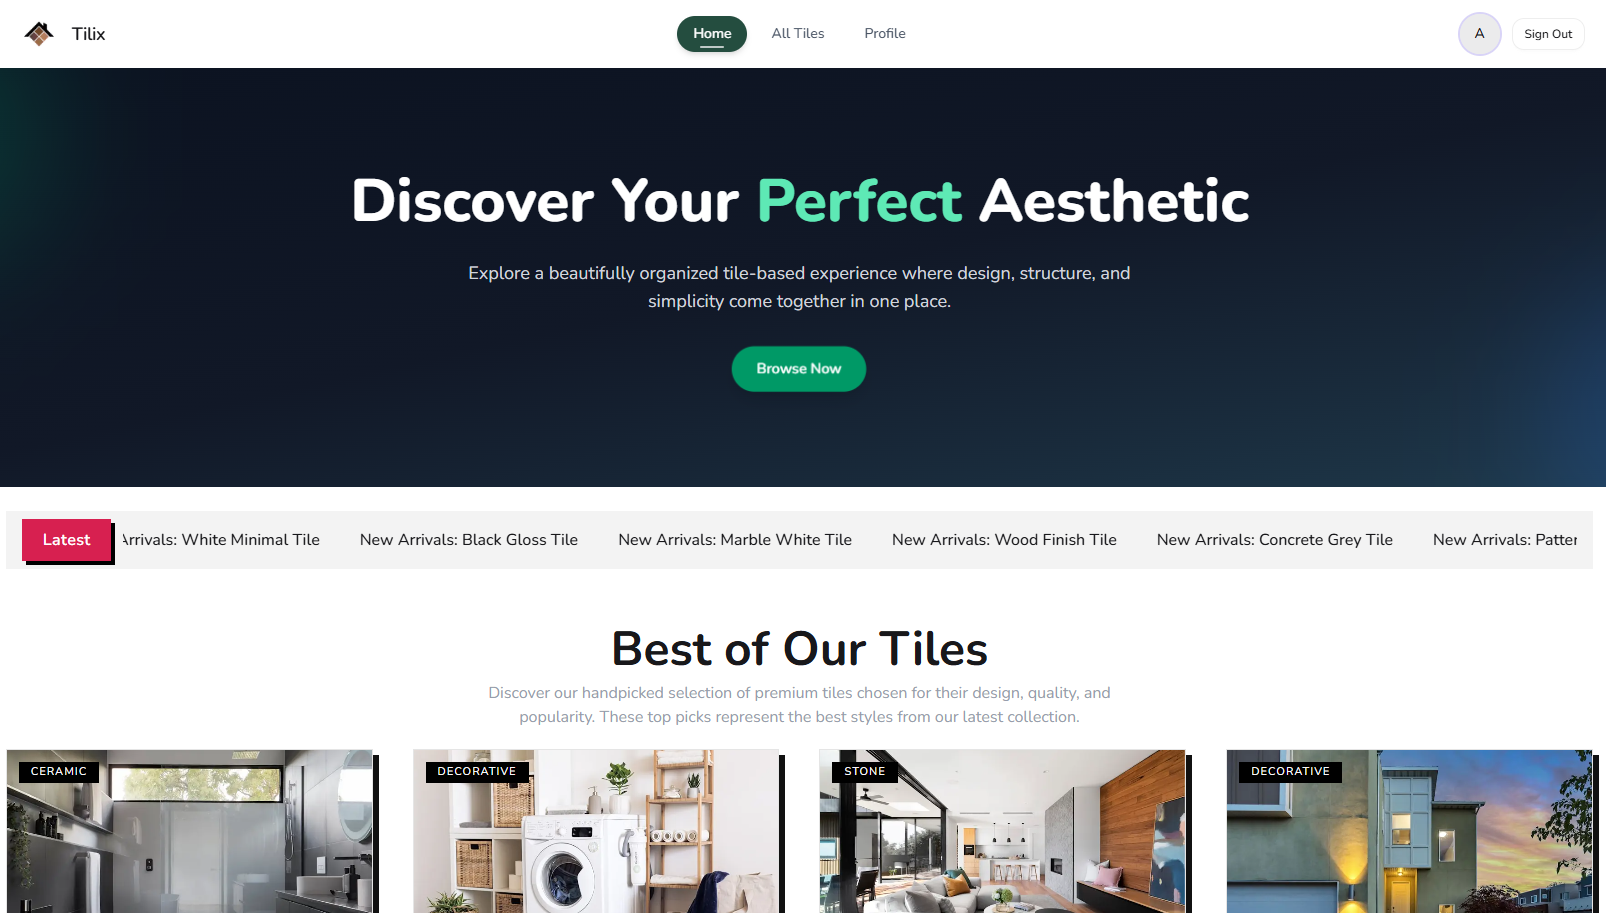
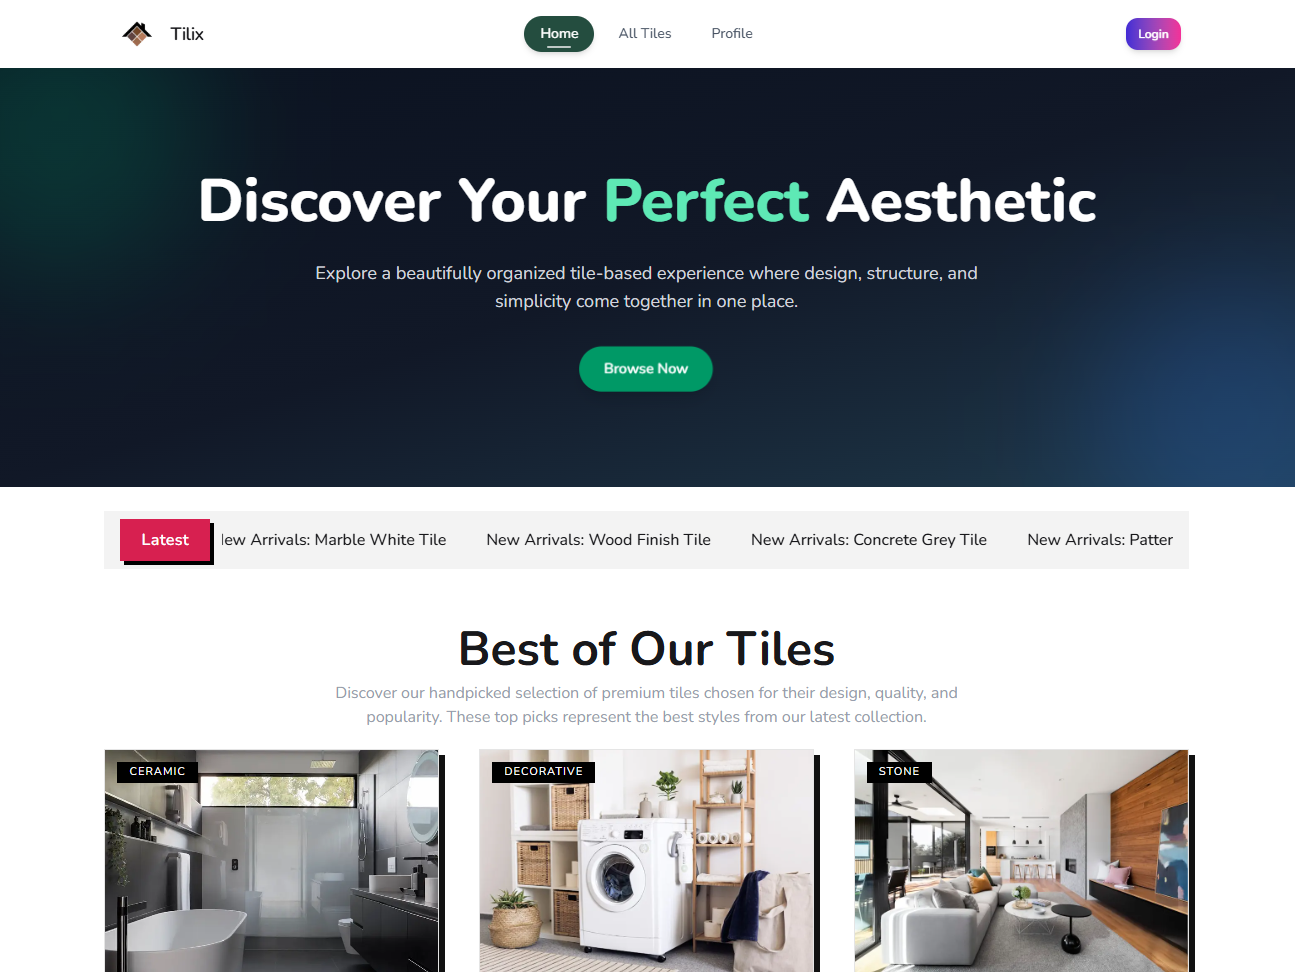
feat(project): update project section overall design

diff --git a/src/components/Project/ProjectCard.jsx b/src/components/Project/ProjectCard.jsx
@@ -1,121 +1,136 @@
-import Image from "next/image";
 import { motion } from "framer-motion";
-import { ExternalLink, ArrowRight } from "lucide-react";
+import { ArrowRight, ExternalLink } from "lucide-react";
+import Image from "next/image";
 import { FaCode, FaGithub } from "react-icons/fa";
-
-import React from 'react';
 
 const ProjectCard = ({ project }) => {
     return (
-        <div>
+        <div className="relative group p-1">
+            {/* CRAZY HOVER EFFECT: Glowing Background Aura */}
+            <div className="absolute inset-0 bg-gradient-to-r from-violet-600 via-fuchsia-500 to-cyan-400 rounded-2xl opacity-0 group-hover:opacity-60 blur-xl transition-all duration-500 scale-95 group-hover:scale-105" />
+
             <motion.div
                 initial={{ opacity: 0, y: 20 }}
                 whileInView={{ opacity: 1, y: 0 }}
-                transition={{ duration: 0.6 }}
+                transition={{ duration: 0.6, ease: "easeOut" }}
                 viewport={{ once: true, amount: 0.2 }}
-                whileHover={{ y: -5 }}
-                className="max-w-[350px] md:max-w-[400px] rounded-xl overflow-hidden bg-[#0f172a] border border-slate-700"
+                className="relative h-full max-w-[350px] md:max-w-[400px] rounded-2xl overflow-hidden 
+                           bg-slate-900/80 backdrop-blur-md border border-slate-800 
+                           group-hover:border-violet-500/50 group-hover:-translate-y-2 
+                           transition-all duration-500 ease-[cubic-bezier(0.25,1,0.5,1)] 
+                           box-shadow shadow-xl group-hover:shadow-[0_20px_40px_rgba(0,0,0,0.5)]"
             >
-                {/* IMAGE */}
-                <div className="relative h-[180px]">
+                {/* IMAGE CONTAINER (Scale animation removed to protect uneven aspect ratios) */}
+                <div className="relative h-[200px] w-full overflow-hidden">
+                    {/* Dark overlay that fades on hover */}
+                    <div className="absolute inset-0 bg-gradient-to-t from-slate-950 via-transparent to-transparent z-10 opacity-60 group-hover:opacity-30 transition-opacity duration-500" />
+
                     <Image
                         src={project.image}
                         alt={project.title}
                         fill
                         className="object-cover"
-                        sizes="(max-width: 768px) 100vw, 340px"
+                        sizes="(max-width: 768px) 100vw, 400px"
                         priority={false}
                     />
                 </div>
 
-                <div className="p-5">
+                {/* CONTENT SECTION */}
+                <div className="p-6 relative z-20">
                     {/* TITLE + BADGE */}
-                    <div className="flex justify-between items-center mb-3">
-                        <h3 className="text-white font-semibold text-lg">
-                            {project.title}
-                        </h3>
+                    <div className="flex justify-between items-center mb-4">
+                        <div className="flex items-center gap-3">
+                            <div className="relative p-1 bg-slate-800 rounded-lg border border-slate-700 group-hover:border-violet-400/50 transition-colors duration-300">
+                                <Image
+                                    src={project.icon}
+                                    alt={project.title}
+                                    width={36}
+                                    height={36}
+                                    className="rounded-md"
+                                />
+                            </div>
+                            <h3 className="text-white font-bold text-xl tracking-tight group-hover:text-transparent group-hover:bg-clip-text group-hover:bg-gradient-to-r group-hover:from-white group-hover:to-violet-300 transition-all duration-300">
+                                {project.title}
+                            </h3>
+                        </div>
 
                         {project.featured && (
-                            <span className="text-xs px-2 py-1 bg-violet-500/20 text-violet-300 rounded">
+                            <span className="text-[11px] font-semibold tracking-wider uppercase px-2.5 py-1 bg-gradient-to-r from-violet-500/20 to-fuchsia-500/20 text-violet-300 rounded-full border border-violet-500/30 shadow-[0_0_15px_rgba(139,92,246,0.1)]">
                                 Featured
                             </span>
                         )}
                     </div>
 
                     {/* DESCRIPTION */}
-                    <p className="text-sm text-slate-400 mb-4 line-clamp-3">
+                    <p className="text-sm text-slate-400 mb-5 line-clamp-3 leading-relaxed group-hover:text-slate-300 transition-colors duration-300">
                         {project.description}
                     </p>
 
                     {/* TAGS */}
-                    <div className="flex flex-wrap gap-2 mb-5">
+                    <div className="flex flex-wrap gap-2 mb-6">
                         {project.tags.slice(0, 6).map((tag, index) => (
                             <span
                                 key={index}
-                                className="text-[11px] px-3 py-1 rounded-full border border-white/10 text-white/60 bg-white/5"
+                                className="text-[11px] font-medium px-2.5 py-1 rounded-md border border-slate-800 text-slate-400 bg-slate-950/40 group-hover:border-violet-500/20 group-hover:text-violet-200 transition-all duration-300"
                             >
                                 {tag}
                             </span>
                         ))}
 
                         {project.tags.length > 6 && (
-                            <span className="text-[#fff3f35b] text-[12px] py-1">
+                            <span className="text-slate-500 text-[12px] font-medium py-1 px-1">
                                 +{project.tags.length - 6}
                             </span>
                         )}
                     </div>
 
-                    {/* LINKS */}
-                    <div className="flex justify-between items-center gap-10">
-                        <div className="flex gap-5 text-slate-400">
+                    {/* LIKES & ACTIONS */}
+                    <div className="flex justify-between items-center pt-4 border-t border-slate-800/60 group-hover:border-violet-500/20 transition-colors duration-500">
+                        <div className="flex gap-4 text-slate-400">
                             {/* LIVE */}
-                            <div className="">
-                                <a
-                                    href={project.liveUrl}
-                                    target="_blank"
-                                    rel="noopener noreferrer"
-                                    className="text-white hover:text-violet-400 transition flex items-center gap-2"
-                                >
-                                    <ExternalLink size={20} />
-
-                                </a>
-                            </div>
+                            <a
+                                href={project.liveUrl}
+                                target="_blank"
+                                rel="noopener noreferrer"
+                                className="p-2 bg-slate-950/40 rounded-xl text-slate-400 hover:text-white hover:bg-violet-600 border border-slate-800 hover:border-violet-500 transition-all duration-300"
+                                title="Live Demo"
+                            >
+                                <ExternalLink size={18} />
+                            </a>
 
                             {/* GITHUB CLIENT */}
-                            <div className="">
-                                <a
-                                    href={project.githubClientUrl}
-                                    target="_blank"
-                                    rel="noopener noreferrer"
-                                    className="text-white hover:text-violet-400 transition flex items-center gap-2"
-                                >
-                                    <FaGithub size={20} />
-                                </a>
-                            </div>
+                            <a
+                                href={project.githubClientUrl}
+                                target="_blank"
+                                rel="noopener noreferrer"
+                                className="p-2 bg-slate-950/40 rounded-xl text-slate-400 hover:text-white hover:bg-violet-600 border border-slate-800 hover:border-violet-500 transition-all duration-300"
+                                title="Client Repository"
+                            >
+                                <FaGithub size={18} />
+                            </a>
 
                             {/* GITHUB SERVER */}
-                            <div className="">
-                                <a
-                                    href={project.githubServerUrl}
-                                    target="_blank"
-                                    rel="noopener noreferrer"
-                                    className="text-white hover:text-violet-400 transition flex items-center gap-2"
-                                >
-                                    <FaCode size={20} />
-                                </a>
-                            </div>
+                            <a
+                                href={project.githubServerUrl}
+                                target="_blank"
+                                rel="noopener noreferrer"
+                                className="p-2 bg-slate-950/40 rounded-xl text-slate-400 hover:text-white hover:bg-violet-600 border border-slate-800 hover:border-violet-500 transition-all duration-300"
+                                title="Server Repository"
+                            >
+                                <FaCode size={18} />
+                            </a>
                         </div>
 
                         {/* VIEW BUTTON */}
-                        <button className="flex items-center gap-1 text-sm text-violet-400 hover:text-violet-300">
-                            View
-                            <ArrowRight size={14} />
+                        <button className="flex items-center gap-1.5 text-sm font-semibold text-violet-400 group-hover:text-violet-300 group-hover:gap-2.5 transition-all duration-300">
+                            <span>View Project</span>
+                            <ArrowRight size={15} />
                         </button>
                     </div>
                 </div>
             </motion.div>
         </div>
     );
-}
+};
 
 export default ProjectCard;

diff --git a/src/data/projectsData.js b/src/data/projectsData.js
@@ -9,11 +9,20 @@ import tilixImage from "@/assests/tilix.png";
 import wanderlustImage from "@/assests/wanderlust.png";
 
 // react icons import
+import neomotorsIcon from "@/assests/project-icons/car.png";
+import wanderlustIcon from "@/assests/project-icons/travel-bag.png";
+import tilixIcon from "@/assests/project-icons/tiles.png";
+import keenkeeperIcon from "@/assests/project-icons/friends.png";
+import dragonnewsIcon from "@/assests/project-icons/newspaper.png";
+import deliciousrecipeIcon from "@/assests/project-icons/recipe.png";
+import englishjanalaIcon from "@/assests/project-icons/english.png";
+import digitaltoolIcon from "@/assests/project-icons/repairing.png";
 
 
 const projects = [
     {
         id: 1,
+        icon: neomotorsIcon,
         title: "NeoMotors",
         description: "NeoMotors is a modern luxury car booking platform built with Next.js, React, MongoDB, and Better Auth, featuring premium UI/UX, secure authentication, and dynamic car management.",
         image: neomotorsImage,
@@ -34,6 +43,7 @@ const projects = [
     },
     {
         id: 2,
+        icon: wanderlustIcon,
         title: "Wanderlust",
         description: "Wanderlust is a modern booking platform where user can book awsome destination. This app built with Next.js, React, Node.js, Express.js, and MongoDB with secure authentication. A flatform where user can book destination with their full trust.",
         image: wanderlustImage,
@@ -53,12 +63,13 @@ const projects = [
     },
     {
         id: 3,
+        icon: tilixIcon,
         title: "Tilix",
         description: "Tilix is a full-stack web app focused on building a clean, intuitive tile discovery experience, where I designed and developed core features end-to-end.",
         image: tilixImage,
         featured: true,
         liveUrl: "https://tilix-eight.vercel.app/",
-        githubUrl: "https://github.com/alfaazahmed7/tilix",
+        githubClientUrl: "https://github.com/alfaazahmed7/tilix",
         tags: [
             "Next.js",
             "DaisyUI",
@@ -67,15 +78,17 @@ const projects = [
             "MongoDB",
             "Tailwind CSS",
         ],
+        stack: 'Frontend'
     },
     {
         id: 4,
+        icon: keenkeeperIcon,
         title: "KeenKeeper",
         description: "KeenKeeper helps you stay connected by tracking communication gaps and reminding you to maintain your friendships through a simple, clean interface.",
         image: keenkeeperImage,
         featured: true,
         liveUrl: "https://keenkeeper-zeta.vercel.app/",
-        githubUrl: "https://github.com/alfaazahmed7/assignment-07",
+        githubClientUrl: "https://github.com/alfaazahmed7/assignment-07",
         tags: [
             "Next.js",
             "DaisyUI",
@@ -84,15 +97,17 @@ const projects = [
             "MongoDB",
             "Tailwind CSS",
         ],
+        stack: 'Frontend'
     },
     {
         id: 5,
+        icon: dragonnewsIcon,
         title: "Dragon News",
         description: "Dragon News is a full-stack web app focused on building a clean, intuitive news discovery experience, where I designed and developed core features end-to-end.",
         image: dragonnewsImage,
         featured: true,
         liveUrl: "https://tilix-eight.vercel.app/",
-        githubUrl: "https://github.com/alfaazahmed7/dragon-news",
+        githubClientUrl: "https://github.com/alfaazahmed7/dragon-news",
         tags: [
             "Next.js",
             "DaisyUI",
@@ -101,15 +116,17 @@ const projects = [
             "MongoDB",
             "Tailwind CSS",
         ],
+        stack: 'Frontend'
     },
     {
         id: 6,
+        icon: deliciousrecipeIcon,
         title: "Delicious Recipe",
         description: "A modern React-based recipe web app that lets users explore, search, and discover delicious meals by category, cuisine, and ingredients, with a clean UI and smooth user experience.",
         image: delicioutrecipeImage,
         featured: true,
         liveUrl: "https://delicious-recipe-three.vercel.app/",
-        githubUrl: "https://github.com/alfaazahmed7/Delicious-Recipe",
+        githubClientUrl: "https://github.com/alfaazahmed7/Delicious-Recipe",
         tags: [
             "Next.js",
             "DaisyUI",
@@ -118,15 +135,17 @@ const projects = [
             "MongoDB",
             "Tailwind CSS",
         ],
+        stack: 'Frontend'
     },
     {
         id: 7,
+        icon: englishjanalaIcon,
         title: "English Janala",
         description: "A simple and engaging English learning web app built with HTML, CSS, and JavaScript. It helps beginners practice English vocabulary with dynamically loaded word cards, Bangla meanings, and interactive pronunciation features.",
         image: englishjanalaImage,
         featured: true,
         liveUrl: "https://english-janala-dapp.netlify.app/",
-        githubUrl: "https://github.com/alfaazahmed7/English-Janala",
+        githubClientUrl: "https://github.com/alfaazahmed7/English-Janala",
         tags: [
             "Next.js",
             "DaisyUI",
@@ -135,15 +154,17 @@ const projects = [
             "MongoDB",
             "Tailwind CSS",
         ],
+        stack: 'Frontend'
     },
     {
         id: 8,
+        icon: digitaltoolIcon,
         title: "Digital Tools",
         description: "Digital Tools is a modern React-based web app where users can explore, select, and purchase digital services through an interactive and user-friendly interface with real-time cart management.",
         image: digitaltoolImage,
         featured: true,
         liveUrl: "https://digital-tools-web-app.netlify.app/",
-        githubUrl: "https://github.com/alfaazahmed7/Assignment-06",
+        githubClientUrl: "https://github.com/alfaazahmed7/Assignment-06",
         tags: [
             "Next.js",
             "DaisyUI",
@@ -152,6 +173,7 @@ const projects = [
             "MongoDB",
             "Tailwind CSS",
         ],
+        stack: 'Frontend'
     },
 ];
 